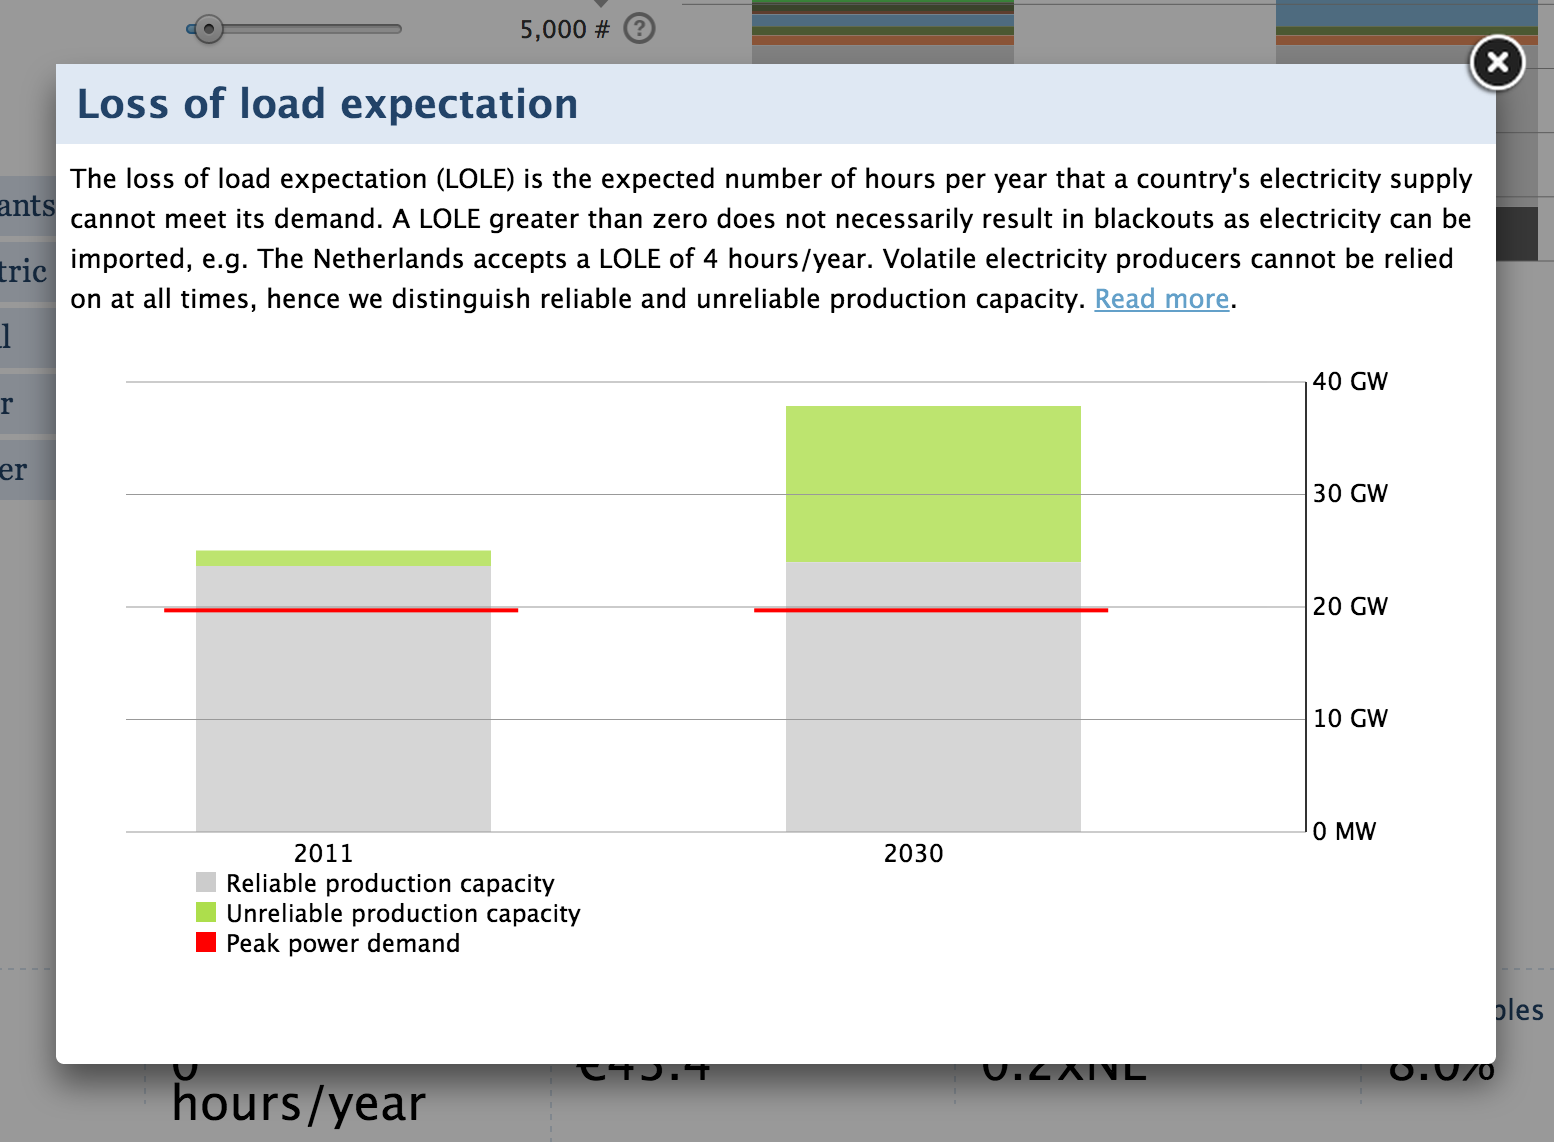
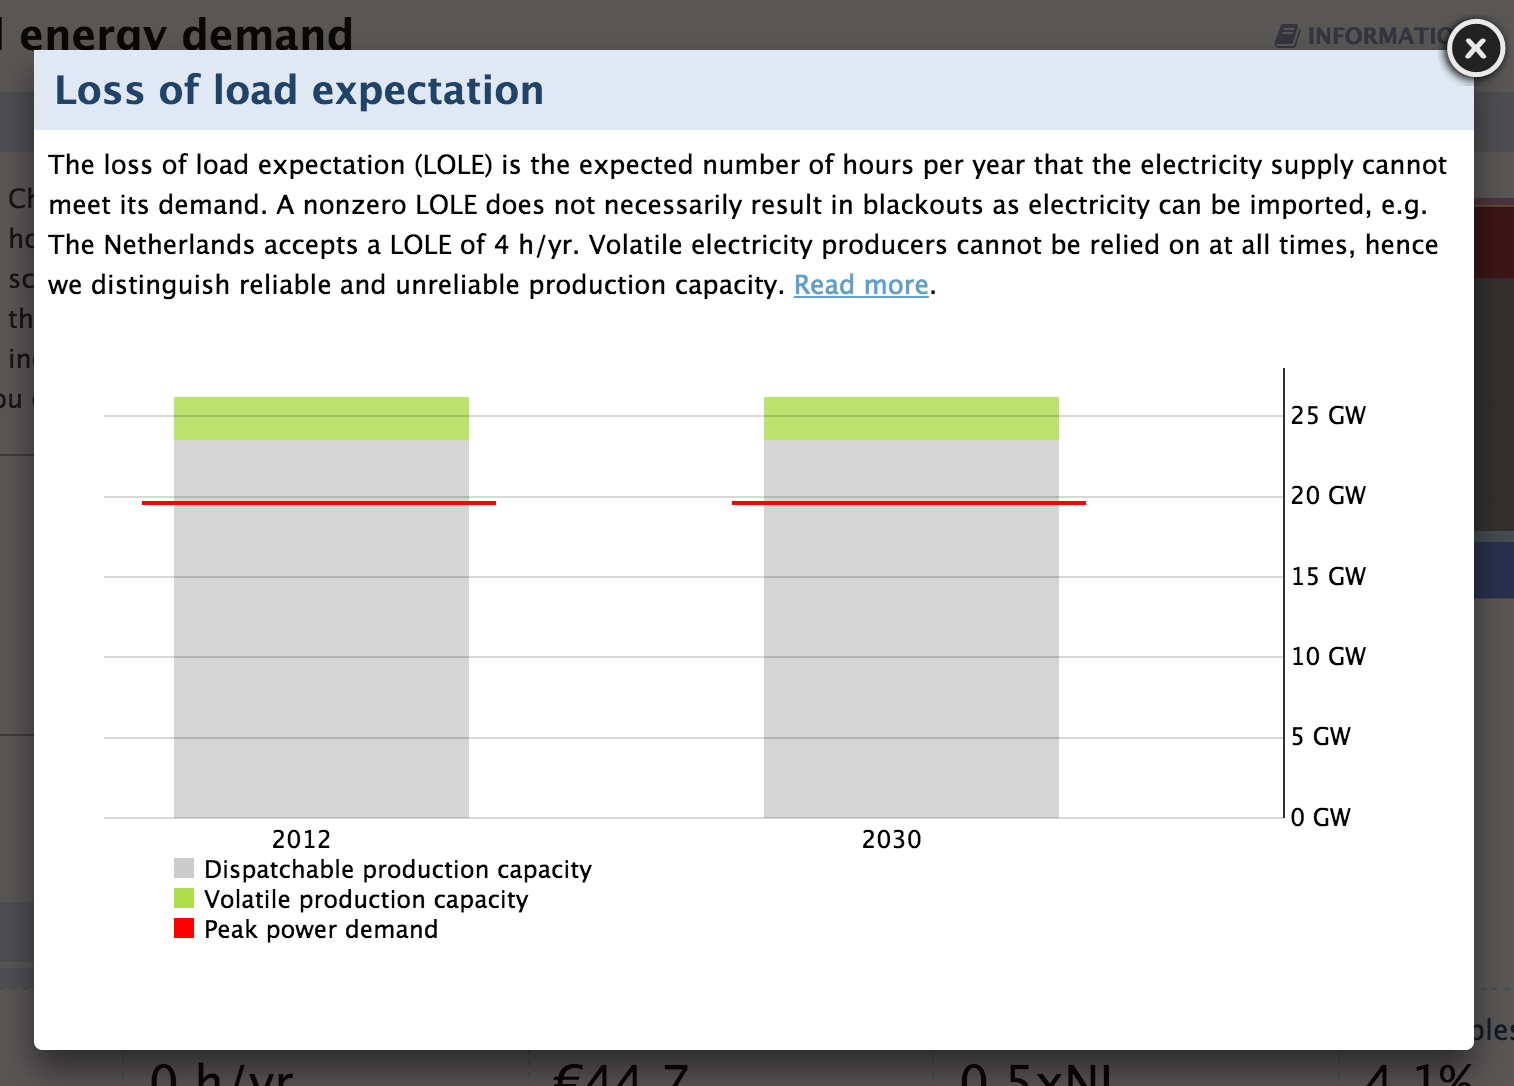
Updated dcumentation to reflect the new LOLE calculation.

diff --git a/general/loss_of_load_expectation.md b/general/loss_of_load_expectation.md
@@ -4,11 +4,11 @@
 ## Introduction
 
 
-The loss of load calculation received a major update in January 2014. The calculation returns the loss of load expectation (LOLE), i.e. the expected number of hours per year that a country's electricity production park cannot meet its demand. The result is displayed in a dashboard item that can be accessed by clicking on *change* in the dashboard and selecting *Loss of load expectation*. Like all dashboard items, the loss of load expectation is shown for the end year of the scenario.
+The loss of load calculation received a major update in January 2015. The calculation returns the loss of load expectation (LOLE), i.e. the expected number of hours per year that a country's electricity production park cannot meet its demand. The result is displayed in a dashboard item that can be accessed by clicking on *change* in the dashboard and selecting *Loss of load expectation*. Like all dashboard items, the loss of load expectation is shown for the end year of the scenario.
 
-The LOLE is an important consideration when planning a power system and similar, but more elaborate, versions of this calculation are conducted by the Transmission System Operators of a country (see e.g. [TenneT, 2012](http://www.tennet.eu/nl/nl/over-tennet/nieuws-pers-publicaties/publicaties/technische-publicaties/rapport-monitoring-leveringszekerheid-2011-2027.html) (Dutch)). A nonzero LOLE does not necessarily result in blackouts as electricity can be extracted from storage or imported from neighbouring countries. TenneT's brief allows a LOLE of 4 hours/year, but each country may have slightly different standards.
+The LOLE is an important consideration when planning a power system and similar, but more elaborate, versions of this calculation are conducted by the Transmission System Operators of a country (see e.g. [TenneT, 2012](http://www.tennet.eu/nl/nl/over-tennet/nieuws-pers-publicaties/publicaties/technische-publicaties/rapport-monitoring-leveringszekerheid-2011-2027.html) (Dutch)). A nonzero LOLE does not necessarily results in blackouts as electricity can be extracted from storage or imported from neighbouring countries. TenneT's brief allows a LOLE of 4 hours/year, but each country may have slightly different standards.
 
-By displaying the LOLE in the ETM, users can see whether they have sufficiently reliable electricity production that can meet the expected demand at all times of the year. This calculation confronts users with the importance of having backup capacity if they build scenarios with significant shares of volatile energy technologies.
+By displaying the LOLE in the ETM, users can see whether they have sufficiently dispatchable electricity production that can meet the expected demand at all times of the year. This calculation confronts users with the importance of having backup capacity if they build scenarios with significant shares of volatile energy technologies.
 
 
 ##In the ETM
@@ -18,12 +18,12 @@ By displaying the LOLE in the ETM, users can see whether they have sufficiently 
 The loss of load dashboard item can be accessed via the flexible dashboard by clicking **change** on the bottom right corner of the Energy Transition Model interface. If this item is selected, the loss of load expectation is seen in the middle of the dashboard. The displayed number is the expected number of hours per year that the country's electricity production capacity cannot meet its demand. Clicking on the dashboard item reveals a popup showing a chart with the following items for both the present and the future year:
 
 - Peak power demand - This is the largest power demand expected to occur in a year.
-- Reliable production capacity - The reliable capacity is electricity production capacity that can be counted on at all times during the year. Volatile energy technologies such as solar PV and wind turbines have a limited, to zero, contribution to the reliable capacity, often referred to as their capacity credit (see below).
-- Unreliable capacity - Unreliable capacity is electricity production capacity that cannot be guaranteed at all times. All solar PV electricity production capacity and a large fraction of the wind electricity production capacity falls into this category.
+- Dispatchable production capacity - The dispatchable capacity is electricity production capacity that can be switched on at will and can be counted on at all times during the year.
+- Volatile capacity - Volatile capacity is electricity production capacity that cannot be guaranteed at all times. All solar PV electricity production, wind electricity production capacity and hydro river production capacity falls into this category.
 
-The sum of the reliable and unreliable production capacity is equal to the total installed capacity.
+The sum of the dispatchable and volatile production capacity is equal to the total installed capacity.
 
-If the peak electricity demand is larger than the reliable capacity the loss of load expectation increases. To decrease the loss of load expectation, reliable capacity needs to be installed or the demand needs to be reduced.
+The Energy Transition Model contains typical hourly production profiles for volatile electricity producers. This volatile electricity production is subtracted from the hourly electricity demand and the peak electricity demand is determined. This peak electricity demand is compared to the available dispatchable production capacity. If the peak demand exceeds the dispatchable capacity, the loss of load expectation increases. To decrease the loss of load expectation, reliable capacity needs to be installed or the demand needs to be reduced.
 
 
 ### Calculation
@@ -34,13 +34,14 @@ Several methods exist for calculating the loss of load expectation. Since we lik
 - Total yearly electricity demand - taken from the ETM based on user decisions
 - Installed electricity production capacity for all electricity producers - taken from the ETM based on user decisions
 - Availability of all electricity producers - taken from the ETM, several sources
-- Capacity credit of all electricity producers - taken from the ETM, see [this section](#capacity_credit) for details
 
 In short, the calculation consists of the following steps.
 
-1. Scale the demand profile
-- Calculate reliable production capacity
-- Compare the demand profile and the reliable production capacity and determine LOLE
+1. Scale the demand profile according to the total electricity demand in the scenario
+2. Scale the production profile of volatile electricity sources according to their installed capacity
+3. Subtract the volatile production from the demand profile; this results in a residual demand profile
+4. Calculate dispatchable production capacity
+5. Compare the residual demand profile and the dispatchable production capacity and determine LOLE
 
 These three steps are explained in detail below.
 
@@ -54,37 +55,40 @@ One of the main assumptions in our approach to calculating the LOLE is that the 
 
 Many parameters affect the shape of the hourly load profiles, e.g. the demand profiles for specific technologies and human behaviour. As we do not have data on this yet, we decided to leave the shape of the load profiles the same. We do, however, scale the load profile such that the area underneath it is equal to the total yearly electricity demand.
 
-### Calculate reliable production capacity
+### Scale the volatile production profiles
 
-Not all electricity production can be relied on at all times. For instance, solar PV does not produce any electricity at night meaning that they do not contribute to the reliable production capacity. In the ETM, we model this by assigning a capacity credit to every electricity producers (see below for details). In addition to the capacity credit every electricity producer has an availability assigned to it, which describes what fraction of the time the electricity producer is available and not down due to, e.g. maintanence. The reliable production capacity of an electricity producer is defined as follows:
+In the Energy Transition Model the following type of electricity production is considered volatile:
 
-`reliable_production_capacity = installed_capacity * availability * capacity_credit`.
+- Wind turbines (inland, coastal and offshore)
+- Solar PV (in households, buildings and solar PV plants)
+- Solar CSP
+- Hydro river
+
+The ETM contains typical production profiles for all these types of volatile electricity producers. To determine the volatile electricity production in a specific scenario, these production profiles are scaled by installed capacity in that scenario.
+
+### Subtract volatile production from demand profile
+
+Volatile electricity cannot be relied on at all times, but when it is available it will be used. We model this is the ETM by subtracting all volatile electricity production profiles from the demand profile. The result is a residual load profile.
+
+
+### Calculate dispatchable production capacity
+
+Not all electricity production can be relied on at all times. We distinguish dispatchable and volatile electricity supply. Dispatchable production capacity can be relied on at all times, except for when a plant is down for maintainance. We take this into account by researching an `availability` for all plants. The dispatchable production capacity is then defined as
+
+`dispatchable_production_capacity = installed_capacity * availability`.
  
-The total reliable production capacity is simply the sum of the reliable production capacity for all electricity producers.
+The total dispatchable production capacity is simply the sum of the dispatchable production capacity for all dispatchable producers.
 
 ### Determine LOLE
 
-The hourly load profile consists of 8760 data points, representing the average hourly load for each hour of the year. We compare each of these 8760 hours to the reliable production capacity that was calculated above, and determine at how many of these hours the load exceeds the reliable production capacity. This number of hours is defined as the LOLE. The figure below shows a graphical representation of the LOLE calculation. For clarity, the load profile has been represented as a histogram (red). The reliable production capacity is shown as a green line. In this particular case, the LOLE is equal to zero as none of the events in the histogram are to the right of the green line.
+The residual hourly load profile consists of 8760 data points, representing the residual average hourly load for each hour of the year. We compare each of these 8760 hours to the dispatchable production capacity that was calculated above, and determine at how many of these hours the load exceeds the dispatchable production capacity. This number of hours is defined as the LOLE. The figure below shows a graphical representation of the LOLE calculation. For clarity, the load profile has been represented as a histogram (red). The reliable production capacity is shown as a green line. In this particular case, the LOLE is equal to zero as none of the events in the histogram are to the right of the green line.
 
 ![graphical representation of the LOLE calculation](../images/LOLE_calculation.png "graphical representation of the LOLE calculation")
-
-
-## [Capacity credit](id:capacity_credit)
-
-The capacity credit of an electricity producer is a measure for ability of this producer to replace convetional electricity production or, in other words, a measure for the producers contribution to the reliable production capacity. A solar PV installation for example has a capacity credit of 0% because it is certain that this installation will not produce any electricity at night. Conventional or thermal electricity producers and technologies such as pumped storage hydro power on the other hand have a capacity credit of 100%. The output of these technologies is controlled and hence their contribution to reliable capacity is 100% of their installed capacity.
-
-The capacity credit of wind turbines is strongly depended on the installed wind capacity. Several studies have been performed to the exact shape of this dependence (see e.g. [(IEA, 2009)](http://refman.et-model.com/publications/1664)). In the ETM, we use the results from [(Wilton, 2013)](http://refman.et-model.com/publications/1847), page 40 and 41. These numbers have been calculated for The Netherlands, but, due to the lack of others sources, are used for all other countries as well. The model developed by Wilton is only valid for installed wind capacities of 379 MW or more. For lower capacities, the capacity credit calculated by the model becomes unphysically high. To correct this behaviour, we assume that capacity credit stays the same for installed capacities of 379 MW and lower. The capacity credit of wind varies from 32% to 4% for the range of installed wind capacity that can be achieved in the ETM (see figure below).
-
-![capacity credit of wind turbines as a function of installed capacity of wind turbines](../images/capacity_credit_wind.png "capacity credit of wind turbines as a function of installed capacity of wind turbines")
-
-All electricity producers have an attribute `variability`. For consistency, we defined `capacity_credit = 1 - variability`.
-
 
 ## Discussion
 
 The following aspects of the current LOLE implementation can be improved on and should be subject of further study.
 
-- The wind capacity credit function should be researched for Germany and Europe (see related [Github issue](https://github.com/quintel/etdataset/issues/415)).
 - The LOLE calulation does not take into account ramping times of electricity producers.
 - An alternative method to calculate the LOLE is described by [ofgem](https://www.ofgem.gov.uk/publications-and-updates/electricity-capacity-assessment-report-2013). This method is based on convolution of the load profile and generation profiles of conventional generation and typical electricity generation distribution of wind turbines. This method could be extended to include solar PV. We have tried this method, but concluded that the calculation time is too high to include it in the model.
 - The shape of the hourly load profile should be depended on the technologies that have been installed in the ETM. If, for example, The Netherlands would switch from heating the majority of its residences with gas-fired condensing combi boilers to heating with electric heaters, this would have an effect on the hourly electricity load profile. Incoorporating this in the ETM is a major effort as typical hourly demand and production profiles need to be researched for all converters in the ETM. Hence we decided to keep the shape of the hourly load profiles the same in going from the start year to the end year of the scenario.
